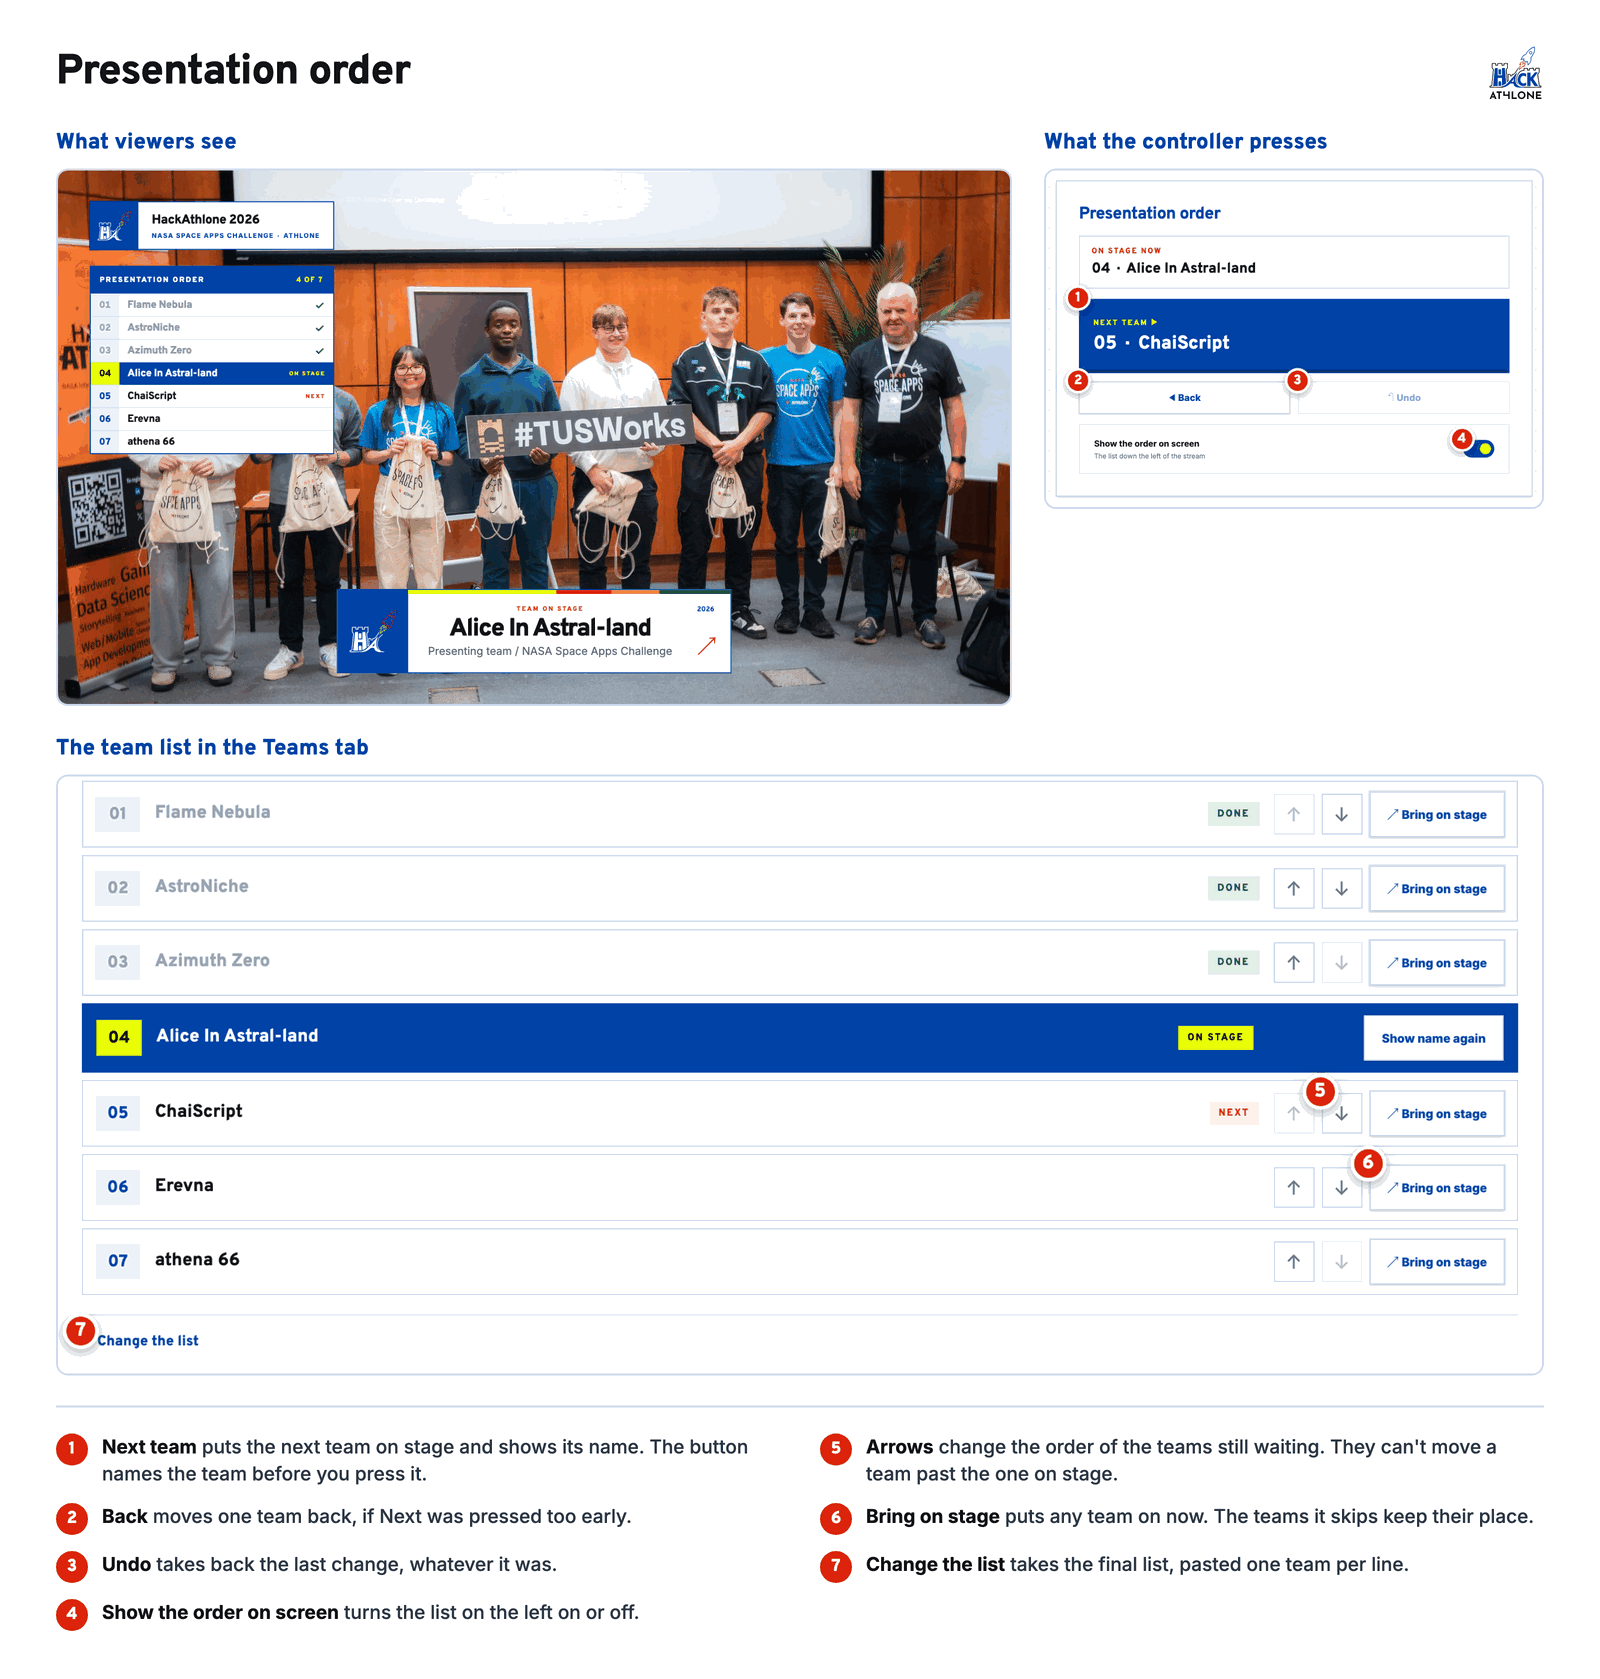
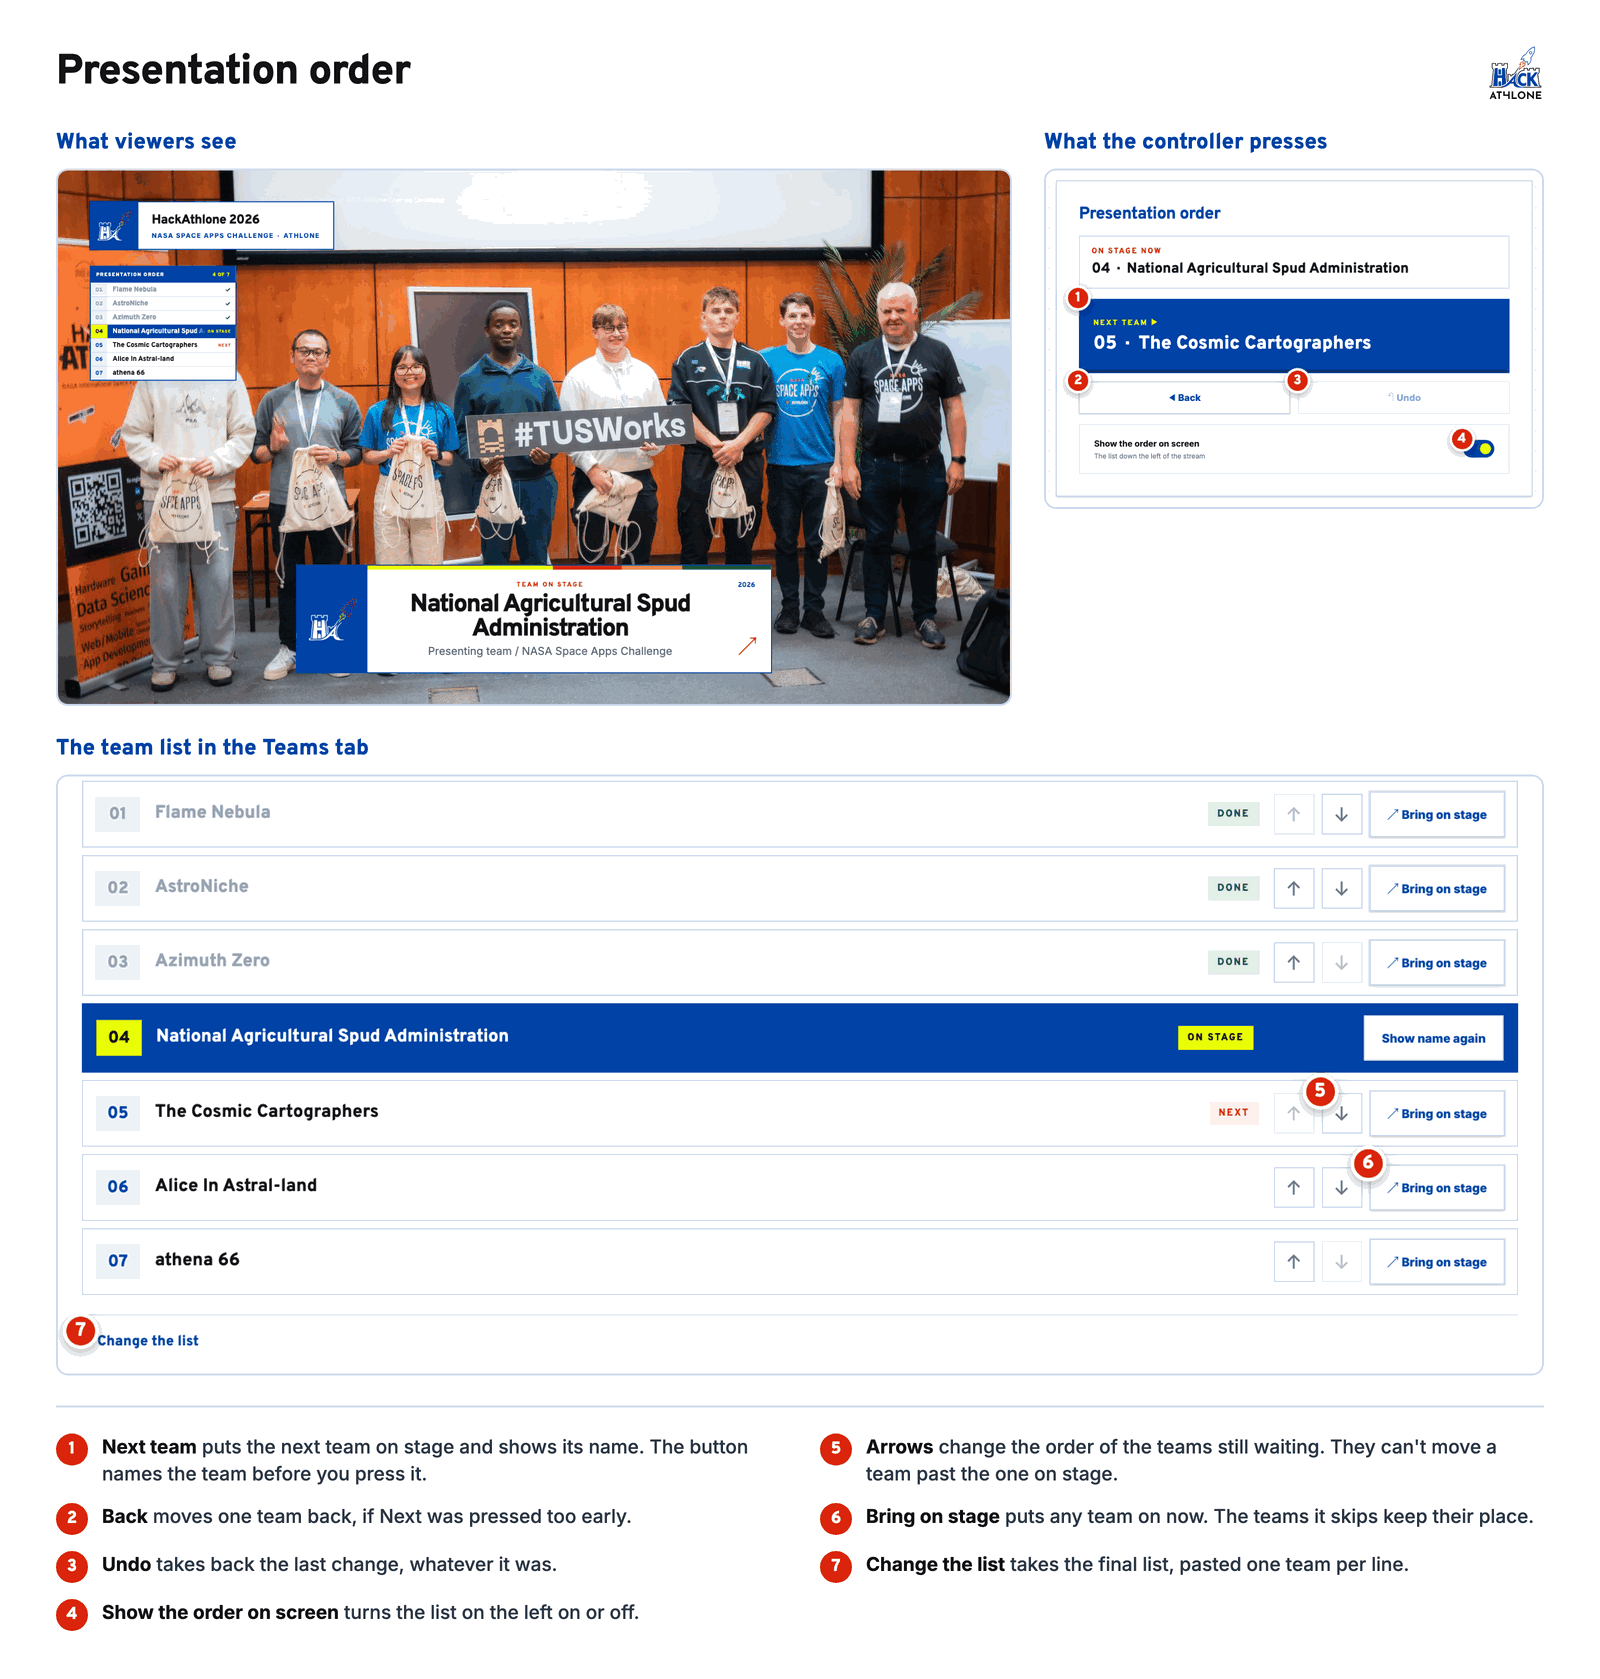
Make the presentation order 60% smaller, and scroll long team names like a band

diff --git a/dist/overlay.css b/dist/overlay.css
@@ -49,18 +49,25 @@
 
 /* The partner strip and ticker cover the slate footer, so hide the footer while either is on. */
 #canvas.bottom-bars .slate:before,#canvas.bottom-bars .slate-dates,#canvas.bottom-bars .slate-site{display:none}
-/* Presentation order: the teams in presenting order down the left, like a race timing tower. */
-.order{position:absolute;left:var(--safe);top:calc(var(--safe) + 130px);width:493px;background:#fff;border:2px solid var(--electric);box-shadow:0 18px 46px #00307a26;overflow:hidden;transition:opacity .38s ease,transform .55s cubic-bezier(.22,1,.36,1),visibility .55s}
-.order.hidden{transform:translateX(-36px)}
-.order-head{height:54px;padding:0 20px 0 18px;display:flex;align-items:center;justify-content:space-between;background:var(--electric);color:#fff;font:800 15px Overpass,sans-serif;letter-spacing:.16em}
-.order-head span{color:var(--neon);letter-spacing:.1em;font-variant-numeric:tabular-nums}
+/* Presentation order: the teams in presenting order down the left, like a race timing tower.
+   A name too long for its row scrolls like a band. */
+.order{position:absolute;left:var(--safe);top:calc(var(--safe) + 130px);width:296px;background:#fff;border:2px solid var(--electric);box-shadow:0 11px 28px #00307a26;overflow:hidden;transition:opacity .38s ease,transform .55s cubic-bezier(.22,1,.36,1),visibility .55s}
+.order.hidden{transform:translateX(-24px)}
+.order-head{height:32px;padding:0 11px;display:flex;align-items:center;justify-content:space-between;background:var(--electric);color:#fff;font:800 10px Overpass,sans-serif;letter-spacing:.14em}
+.order-head span{color:var(--neon);letter-spacing:.08em;font-variant-numeric:tabular-nums}
 .order-rows{position:relative;overflow:hidden}
-.order-row{position:absolute;left:0;right:0;top:0;height:46px;display:flex;align-items:center;border-top:1px solid var(--line);background:#fff;transition:transform .7s cubic-bezier(.22,1,.36,1),background-color .35s}
+.order-row{position:absolute;left:0;right:0;top:0;height:28px;display:flex;align-items:center;border-top:1px solid var(--line);background:#fff;transition:transform .7s cubic-bezier(.22,1,.36,1),background-color .35s}
 .order-row.fresh{transition:none}
-.order-row .pos{align-self:stretch;width:58px;flex:none;display:grid;place-items:center;background:#eaf1fb;color:var(--electric);font:800 19px Overpass,sans-serif;font-variant-numeric:tabular-nums;transition:background-color .35s,color .35s}
-.order-row .name{flex:1;min-width:0;padding:0 14px 0 16px;color:#111;font:750 21px/1.1 Overpass,sans-serif;letter-spacing:-.02em;white-space:nowrap;overflow:hidden;text-overflow:ellipsis;transition:color .35s}
-.order-row .mark{flex:none;padding-right:16px;font:800 12px Overpass,sans-serif;letter-spacing:.16em}
-.order-row .mark svg{display:block;width:22px;height:22px;color:var(--forest)}
+.order-row .pos{align-self:stretch;width:34px;flex:none;display:grid;place-items:center;background:#eaf1fb;color:var(--electric);font:800 12px Overpass,sans-serif;font-variant-numeric:tabular-nums;transition:background-color .35s,color .35s}
+.order-row .name{flex:1;min-width:0;padding:0 8px 0 10px;overflow:hidden;white-space:nowrap;color:#111;font:750 14px/1 Overpass,sans-serif;letter-spacing:-.01em;transition:color .35s}
+.order-row .name-track{display:inline-flex;white-space:nowrap}
+.order-row .name .t{display:inline-block}
+.order-row .name .gap{display:inline-block;width:36px}
+.order-row .name.scroll{-webkit-mask-image:linear-gradient(90deg,transparent 0,#000 8px,#000 calc(100% - 22px),transparent);mask-image:linear-gradient(90deg,transparent 0,#000 8px,#000 calc(100% - 22px),transparent)}
+.order-row .name.scroll .name-track{animation:order-band var(--band-time,8s) linear infinite}
+@keyframes order-band{to{transform:translateX(var(--band-shift,0))}}
+.order-row .mark{flex:none;padding:0 9px 0 4px;font:800 8px Overpass,sans-serif;letter-spacing:.14em}
+.order-row .mark svg{display:block;width:13px;height:13px;color:var(--forest)}
 .order-row.done{background:#f6f8fc}
 .order-row.done .pos{background:#eef1f6;color:#9aa5b8}
 .order-row.done .name{color:#8a93a6}

diff --git a/dist/overlay.js b/dist/overlay.js
@@ -2,7 +2,7 @@ import { showsSlateTime } from './slate-time.js';
 import { ROWS, towerWindow, rowKeys, status } from './order.js';
 const $ = id => document.getElementById(id);
 let state, partnerKey, scheduleKey, tickerKey, sceneKey, orderKey;
-const orderRows = new Map(), ROW = 46;
+const orderRows = new Map(), ROW = 28, BAND_GAP = 36, BAND_SPEED = 36;
 const CHECK = '<svg viewBox="0 0 24 24" aria-hidden="true"><path d="M5 12.5l4.5 4.5L19 7.5" fill="none" stroke="currentColor" stroke-width="3" stroke-linecap="round" stroke-linejoin="round"/></svg>';
 const params = new URLSearchParams(location.search);
 const only = params.get('layer');
@@ -17,6 +17,25 @@ function time() {
   text('timer-value',output); text('slate-time',showsSlateTime(state) ? output : '');
   $('timer').classList.toggle('expired',seconds===0);
   if(state.lowerHideAt && Date.now()>=state.lowerHideAt)visibility('lower',false);
+}
+// A name wider than its row scrolls like a band: two copies loop seamlessly (canvas px, px per second).
+function fitName(row, name) {
+  const box = row.querySelector('.name');
+  let track = box.firstElementChild;
+  if (!track || track.dataset.name !== name) {
+    box.innerHTML = '<span class="name-track"><span class="t"></span></span>';
+    track = box.firstElementChild; track.dataset.name = name; track.firstElementChild.textContent = name;
+    box.classList.remove('scroll');
+  }
+  const cs = getComputedStyle(box), room = box.clientWidth - parseFloat(cs.paddingLeft) - parseFloat(cs.paddingRight);
+  const width = track.firstElementChild.offsetWidth, scroll = width > room + 0.5, shift = Math.ceil(width + BAND_GAP);
+  if (scroll === box.classList.contains('scroll') && (!scroll || track.dataset.shift === String(shift))) return;
+  box.classList.toggle('scroll', scroll);
+  track.dataset.shift = String(shift);
+  track.innerHTML = scroll ? '<span class="t"></span><span class="gap"></span><span class="t" aria-hidden="true"></span>' : '<span class="t"></span>';
+  track.querySelectorAll('.t').forEach((t) => { t.textContent = name; });
+  track.style.setProperty('--band-shift', scroll ? `-${shift}px` : '0px');
+  track.style.setProperty('--band-time', `${(shift / BAND_SPEED).toFixed(2)}s`);
 }
 // The presentation order. Rows are keyed by team, so a moved team slides to its new place.
 function renderOrder(s) {
@@ -37,8 +56,8 @@ function renderOrder(s) {
     const st = status(i, current);
     row.classList.remove('done', 'now', 'next', 'waiting'); row.classList.add(st);
     row.querySelector('.pos').textContent = String(i + 1).padStart(2, '0');
-    row.querySelector('.name').textContent = teams[i];
     row.querySelector('.mark').innerHTML = st === 'done' ? CHECK : st === 'now' ? 'ON STAGE' : st === 'next' ? 'NEXT' : '';
+    fitName(row, teams[i]);
     row.style.transform = `translateY(${(i - start) * ROW}px)`;
   });
   for (const [rowKey, row] of orderRows) if (!keys.includes(rowKey)) { row.remove(); orderRows.delete(rowKey); }
@@ -95,3 +114,5 @@ addEventListener('resize',resize);resize();
 const stream = new EventSource('/api/events');stream.onmessage=e=>render(JSON.parse(e.data));
 // OBS and the operator preview use the same server state, including after reload.
 setInterval(time,200);
+// Names are measured in the brand font, so measure again once it has loaded.
+document.fonts.ready.then(() => { for (const row of orderRows.values()) { const track = row.querySelector('.name-track'); if (track) fitName(row, track.dataset.name); } });
